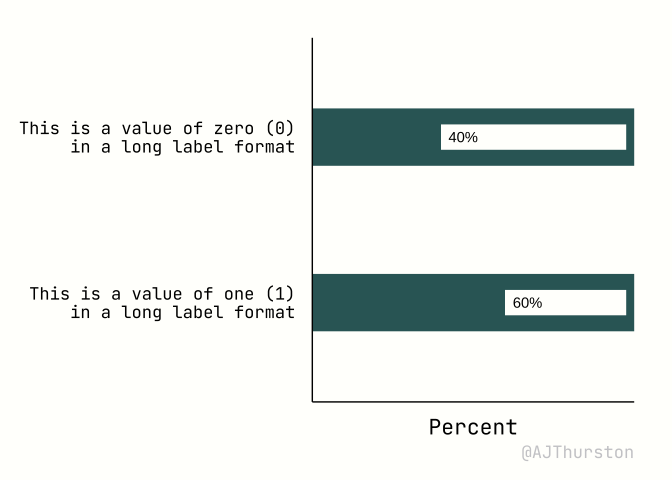
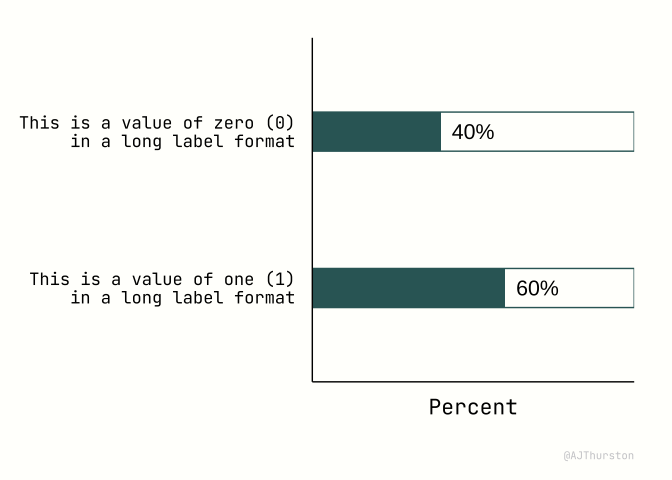
Margin

diff --git a/bar/README.md b/bar/README.md
@@ -80,9 +80,9 @@ dat_prop <- dat |>
   mutate(label = scales::percent(prop, accuracy = 1))
 
 ggplot(dat_prop, aes(x = prop, y = fct_rev(values_name))) +
-  geom_col(aes(x = 1), fill = NA, color = "#336666", size = 16/.pt, width = .25) +
+  geom_col(aes(x = 1), fill = NA, color = "#336666", width = .25) +
   geom_col(fill = "#336666", width = .25) +
-  geom_text(aes(label = label), hjust = -.25) +
+  geom_text(aes(label = label), size = 16/.pt, hjust = -.25) +
   scale_x_continuous(expand = c(0,0), limits = c(0,1)) +
   labs(x = "Percent", y = NULL) +
   theme_custom() +
